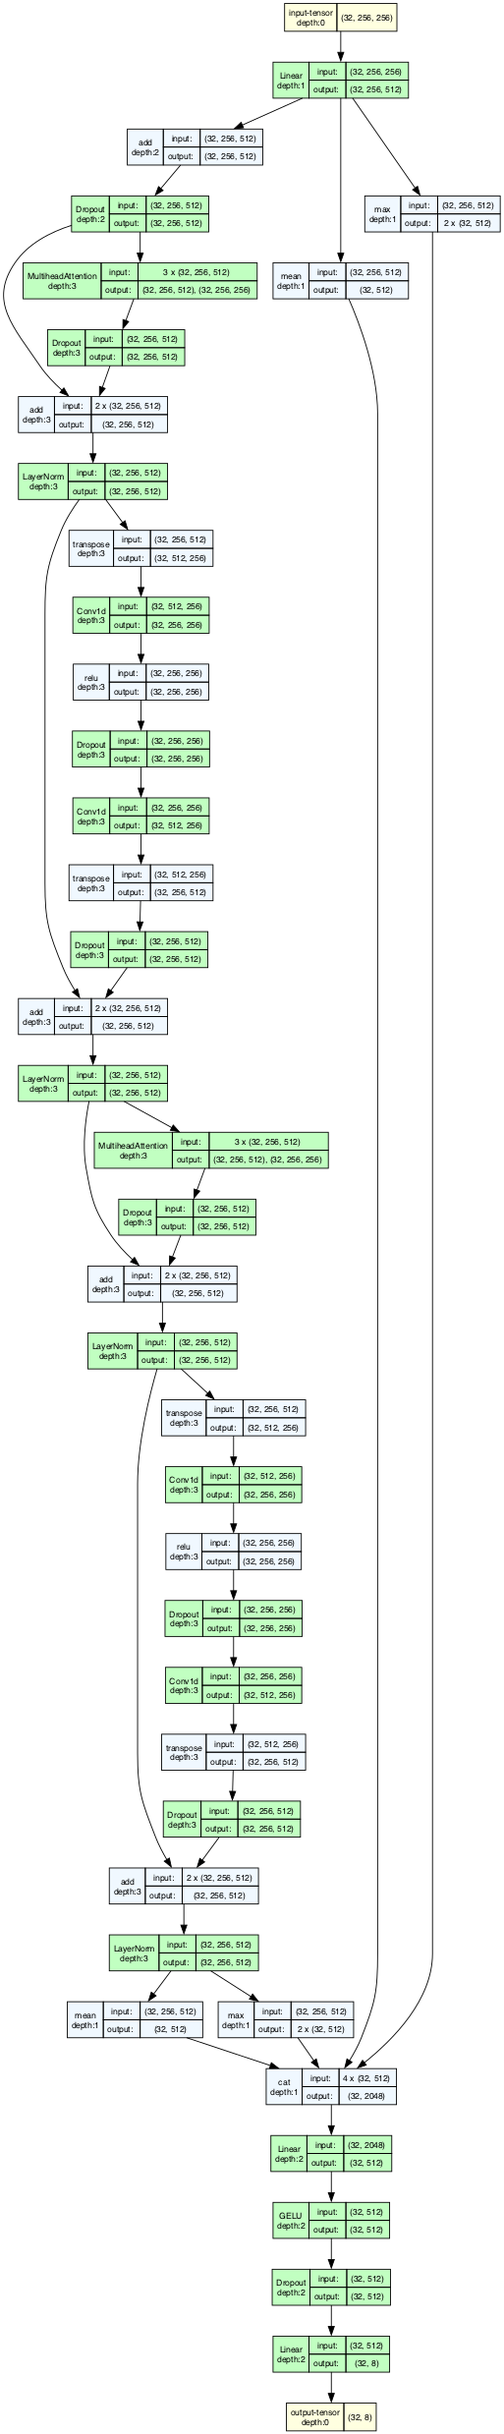
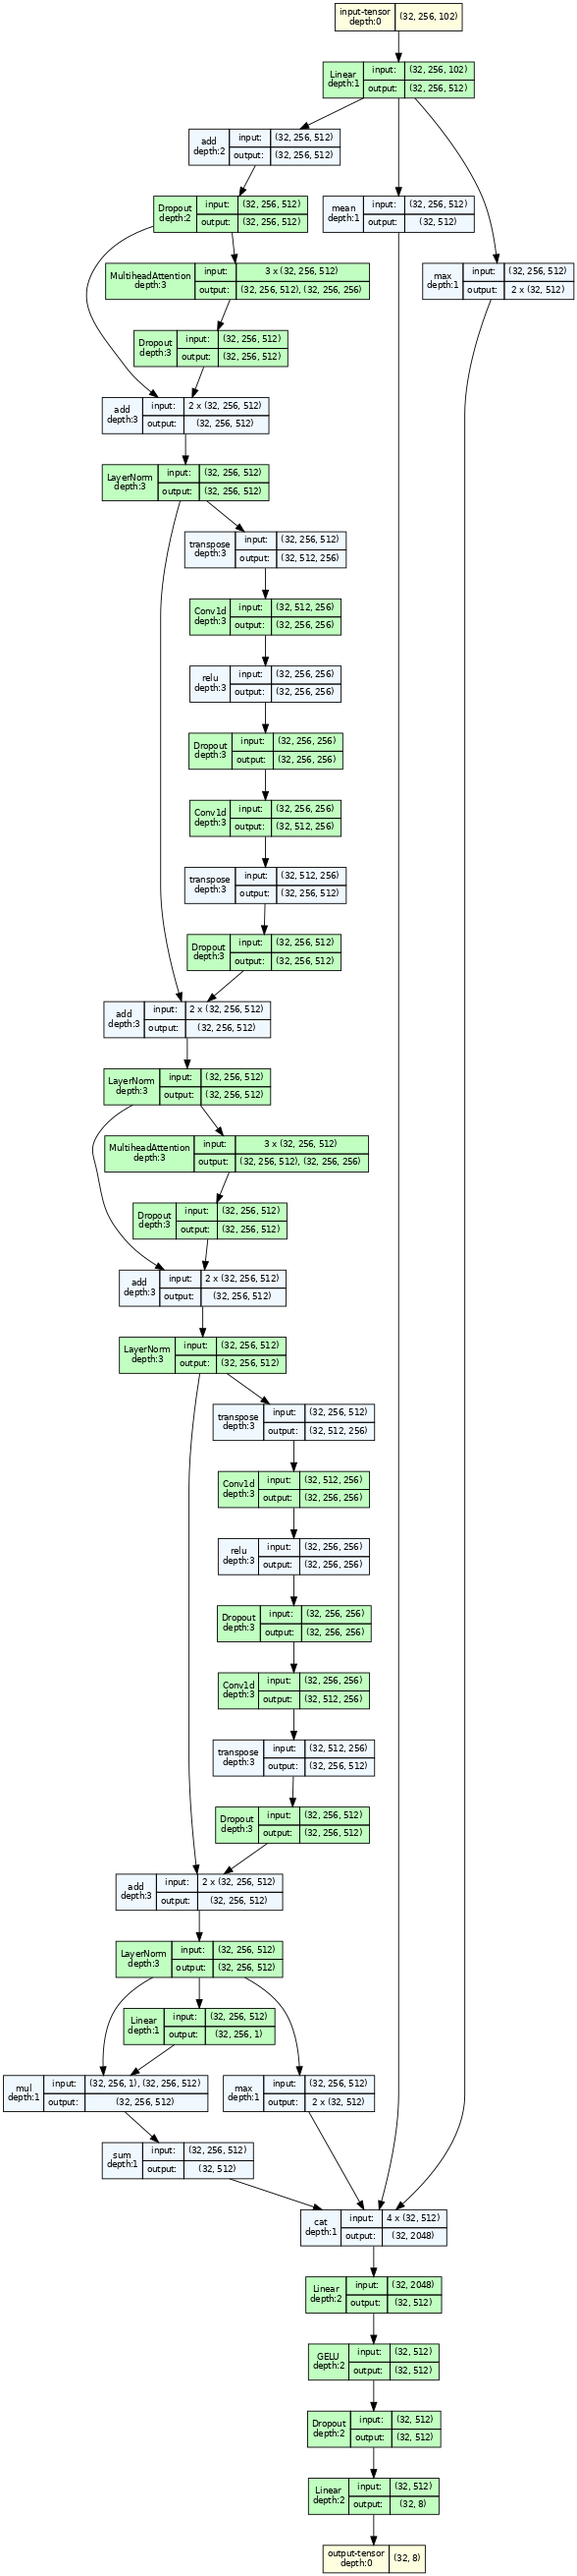
WIP

Changed region(s): [[0.0, 0.0, 0.9981, 1.0], [0.7797, 0.1554, 0.8109, 0.8393], [0.0624, 0.2487, 0.0936, 0.373]]

diff --git a/scripts/train_burn.py b/scripts/train_burn.py
@@ -351,15 +351,21 @@ def main():
         ) = parser.parse_args_into_dataclasses(sys.argv[2:])
         # update args from yaml
         for k, v in args_dict.items():
+            used_args = False
             if hasattr(training_args, k):
                 setattr(training_args, k, v)
+                used_args = True
             if hasattr(model_args, k):
                 setattr(model_args, k, v)
+                used_args = True
             if hasattr(collator_args, k):
                 setattr(collator_args, k, v)
+                used_args = True
+            if not used_args:
+                console_print(f"[yellow]WARNING[/yellow]: unused arg {k} in yaml")
         if len(sys.argv) > 2:
             console_print(
-                f"[yellow]WARNING[/yellow]: yaml args will be override command line args"
+                f"[yellow]WARNING[/yellow]: yaml args will override command line args"
             )
     else:
         (
@@ -553,24 +559,35 @@ def main():
     console_print(
         f"[green]effective_batch_size[/green]: {training_args.batch_size*accelerator.num_processes}"
     )
-    best_results = no_results 
-    best_epoch = 0
+    best_results_prom = no_results 
+    best_epoch_prom = 0
+    best_results_break = no_results 
+    best_epoch_break = 0
     pbar = tqdm(total=pbar_total, desc="step")
     for i in range(training_args.n_epochs):
         eval_results = train_epoch(i)
         # Track best epoch
-        if eval_results["prom_f1_binary"] > best_results["prom_f1_binary"]:
-            best_results = eval_results
-            best_epoch = i
+        if eval_results["prom_f1"] > best_results_prom["prom_f1"]:
+            best_results_prom = eval_results
+            best_epoch_prom = i
+        if eval_results["break_f1"] > best_results_break["break_f1"]:
+            best_results_break = eval_results
+            best_epoch_break = i
+
     console_rule("Evaluation Start")
     seed_everything(training_args.seed)
     last_results = evaluate()
 
     # log best results and epoch
-    console_rule(f"Best epoch {best_epoch}")
+    console_rule(f"Best epoch prom {best_epoch_prom}")
+    console_rule(f"Best epoch break {best_epoch_break}")
     wandb_log(
-        "best_val_results",
-        best_results,
+        "best_val_results_prom",
+        best_results_prom,
+    )
+    wandb_log(
+        "best_val_results_break",
+        best_results_break,
     )
 
     # save final model
@@ -585,48 +602,52 @@ def main():
             f"use \n[magenta]wandb sync {Path(wandb.run.dir).parent}[/magenta]\nto sync offline run"
         )
 
-    return best_epoch, best_results
+    return best_epoch_prom, best_results_prom, best_epoch_break, best_results_break
 
 if __name__ == "__main__":
-    # best_epoch, best_result = main()
+    best_epoch_prom, best_results_prom, best_epoch_break, best_results_break = main()
+    print("prominence...")
+    print(best_epoch_prom, best_results_prom)
+    print("break...")
+    print(best_epoch_break, best_results_break)
 
     # [WIP] couldn't get a bash script/subprocess to run this so quick fix...
-    from datetime import datetime
-    import pandas as pd
-    import numpy as np
+    # from datetime import datetime
+    # import pandas as pd
+    # import numpy as np
 
-    runs=3
+    # runs=1
 
-    # Collect runs
-    best_epochs = {}
-    best_results = {}
-    for i in range(runs):
-        best_epoch, best_result = main()
-        best_epochs[i] = best_epoch
-        best_results[i] = best_result
+    # # Collect runs
+    # best_epochs = {}
+    # best_results = {}
+    # for i in range(runs):
+    #     best_epoch, best_result = main()
+    #     best_epochs[i] = best_epoch
+    #     best_results[i] = best_result
 
-    # Make writable results
-    res_df = pd.DataFrame(best_results).T
-    res_df["best_epoch"] = best_epochs.values()
-    res_df.loc['mean'] = res_df.mean()
-    res_df.loc['std'] = res_df.std()
-    print(res_df.mean())
+    # # Make writable results
+    # res_df = pd.DataFrame(best_results).T
+    # res_df["best_epoch"] = best_epochs.values()
+    # res_df.loc['mean'] = res_df.mean()
+    # res_df.loc['std'] = res_df.std()
+    # print(res_df.mean())
 
-    # Make save file (so janky, didn't want to change the argparsing structure too much though) 
-    if collator_args.use_mpm_random:
-        model_name = 'MPMrandom'
-    elif collator_args.use_cwt:
-        model_name = 'CWT'
-    elif collator_args.mpm:
-        model_name = 'MPM'
-    else:
-        model_name = 'inputfeatures'
-    if 'linear' in sys.argv[1]:
-        classifier_name='linear'
-    else:
-        classifier_name='conformer'
+    # # Make save file (so janky, didn't want to change the argparsing structure too much though) 
+    # if collator_args.use_mpm_random:
+    #     model_name = 'MPMrandom'
+    # elif collator_args.use_cwt:
+    #     model_name = 'CWT'
+    # elif collator_args.mpm:
+    #     model_name = 'MPM'
+    # else:
+    #     model_name = 'inputfeatures'
+    # if 'linear' in sys.argv[1]:
+    #     classifier_name='linear'
+    # else:
+    #     classifier_name='conformer'
     
-    current_datetime = datetime.now().strftime("%Y%m%d_%H%M")
-    filename = f"results/burn/{classifier_name}_{model_name}_{current_datetime}.json"
-    print(f"Saving to: {filename}")
-    res_df.to_json(filename)
+    # current_datetime = datetime.now().strftime("%Y%m%d_%H%M")
+    # filename = f"results/burn/{classifier_name}_{model_name}_{current_datetime}.json"
+    # print(f"Saving to: {filename}")
+    # res_df.to_json(filename)

diff --git a/collators/collators.py b/collators/collators.py
@@ -1337,61 +1337,29 @@ class BaselineTIMITCollator:
                     )
             for measure in results:
                 results[measure].append(measures[measure])
-
-            # fold up measures such the the length is half the original length, but we have an additional dimension
-            for measure in results:
-                if not self.args.use_cwt:
-                    results[measure][-1] = np.array(
-                        [
-                            np.array(
-                                [
-                                    results[measure][-1][i],
-                                    results[measure][-1][i + 1],
-                                ]
-                            )
-                            if i + 1 < len(results[measure][-1])
-                            else np.array(
-                                [
-                                    results[measure][-1][i],
-                                    results[measure][-1][i],
-                                ]
-                            )
-                            for i in range(0, len(results[measure][-1]), 2)
-                        ]
+                # fold up measures such the the length is half the original length, but we have an additional dimension
+                # we got from (n, m) to (n, m/2, 2)
+                arr_1 = results[measure][-1][::2]
+                arr_2 = results[measure][-1][1::2]
+                if arr_1.shape[0] > arr_2.shape[0]:
+                    arr_2 = np.concatenate(
+                        [arr_2, np.zeros((1, arr_2.shape[1]))], axis=0
                     )
-                else:
-                    results[measure][-1] = np.array(
-                        [
-                            np.array(
-                                [
-                                    results[measure][-1][i],
-                                    results[measure][-1][i + 1],
-                                ]
-                            )
-                            if i + 1 < len(results[measure][-1])
-                            else np.array(
-                                [
-                                    results[measure][-1][i],
-                                    results[measure][-1][i],
-                                ]
-                            )
-                            for i in range(0, len(results[measure][-1]), 2)
-                        ]
+                elif arr_1.shape[0] < arr_2.shape[0]:
+                    arr_1 = np.concatenate(
+                        [arr_1, np.zeros((1, arr_1.shape[1]))], axis=0
                     )
-                    results[measure][-1] = np.array(
-                        [
-                            np.array(
-                                [
-                                    interpolate(
-                                        results[measure][-1][i, :, j],
-                                        vocex_len,
-                                    )
-                                    for j in range(results[measure][-1].shape[-1])
-                                ]
-                            )
-                            for i in range(results[measure][-1].shape[0])
-                        ]
-                    )
+                results[measure][-1] = np.stack(
+                    [
+                        arr_1,
+                        arr_2,
+                    ],
+                    axis=-1,
+                )
+                # get rid of the last dimension
+                results[measure][-1] = results[measure][-1].reshape(
+                    results[measure][-1].shape[0], -1
+                )
 
             vocex_len = np.ceil(vocex_len / 2).astype(int)
 
@@ -1432,11 +1400,12 @@ class BaselineTIMITCollator:
 
         # pad measures
         for measure in results:
-            # print([r.shape for r in batch["measures"][measure]])
             batch["measures"][measure] = torch.tensor(
                 np.array(
                     [
                         np.pad(r, ((0, max_len - r.shape[0]), (0, 0)))
+                        if r.shape[0] < max_len
+                        else r[:max_len]
                         for r in batch["measures"][measure]
                     ]
                 )

diff --git a/model/timit_classifiers.py b/model/timit_classifiers.py
@@ -24,7 +24,10 @@ class PhonemeWordBoundaryClassifier(nn.Module):
 
         if not args.use_mpm:
             self.measures = args.measures.split(",")
-            input_size = len(self.measures) * 2
+            if not args.use_cwt:
+                input_size = len(self.measures) * 2
+            else:
+                input_size = args.cwt_n_bins * 2 * len(self.measures)
         else:
             input_size = 512
 
@@ -126,7 +129,10 @@ class PhonemeWordBoundaryClassifier(nn.Module):
     def dummy_input(self):
         torch.manual_seed(0)
         if not self.args.use_mpm:
-            return torch.randn(1, 384, len(self.measures) * 2)
+            if not self.args.use_cwt:
+                return torch.randn(1, 384, len(self.measures) * 2)
+            else:
+                return torch.randn(1, 384, self.args.cwt_n_bins * 2 * len(self.measures))
         else:
             return torch.randn(1, 384, 512)
 

diff --git a/model/ravdess_classifiers.py b/model/ravdess_classifiers.py
@@ -77,6 +77,7 @@ class EmotionClassifier(nn.Module):
                 ),
                 num_layers=args.n_layers,
             )
+            self.weighted_sum = nn.Linear(args.hidden_dim, 1)
             # instead doing mean and max pooling, we can use attention
             # self.attention = nn.Sequential(
             #     nn.Linear(args.hidden_dim, args.hidden_dim),
@@ -129,7 +130,7 @@ class EmotionClassifier(nn.Module):
             # )
             x = torch.cat(
                 [
-                    x.mean(dim=1),
+                    (self.weighted_sum(x) * x).sum(dim=1),
                     x.max(dim=1).values,
                     x_input.mean(dim=1),
                     x_input.max(dim=1).values,

diff --git a/scripts/train_timit.py b/scripts/train_timit.py
@@ -420,6 +420,9 @@ def main():
             collator_args,
         ) = parser.parse_args_into_dataclasses()
 
+    model_args.use_cwt = collator_args.use_cwt
+    model_args.cwt_n_bins = collator_args.cwt_n_bins
+
     # check if run name is specified
     if training_args.run_name is None:
         raise ValueError("run_name must be specified")

diff --git a/model/burn_classifiers.py b/model/burn_classifiers.py
@@ -26,6 +26,8 @@ class BreakProminenceClassifier(nn.Module):
             input_size = len(self.measures) * args.values_per_word
             if args.use_cwt:
                 input_size = input_size * args.cwt_n_bins
+            # if args.use_paper_cwt:
+            #     pass
         else:
             input_size = 512
 
